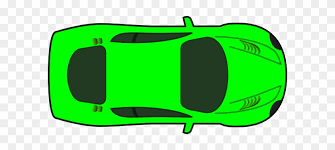
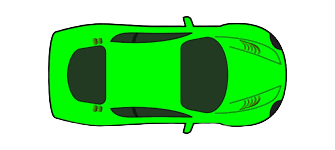
changed all images to images with no background. Removed background using adobe

diff --git a/script.js b/script.js
@@ -31,28 +31,28 @@ let cars = [
 
 // Add a birds array
 let birds = [
-    { x: 1, y: 3, counter: 0, img: '../images/bird1.jpg' },
-    { x: 4, y: 3, counter: 0, img: '../images/bird1.jpg' },
-    { x: 5, y: 3, counter: 0, img: '../images/bird2.jpg' },
-    { x: 8, y: 3, counter: 0, img: '../images/bird1.jpg' },
-    { x: 10, y: 3, counter: 0, img: '../images/bird1.jpg' },
-    { x: 12, y: 3, counter: 0, img: '../images/bird2.jpg' },
-    { x: 2, y: 2, counter: 0, img: '../images/bird1.jpg' },
-    { x: 3, y: 2, counter: 0, img: '../images/bird2.jpg' },
-    { x: 5, y: 2, counter: 0, img: '../images/bird2.jpg' },
-    { x: 6, y: 2, counter: 0, img: '../images/bird2.jpg' },
-    { x: 8, y: 2, counter: 0, img: '../images/bird1.jpg' },
-    { x: 9, y: 2, counter: 0, img: '../images/bird1.jpg' }
+    { x: 1, y: 3, counter: 0, img: '../images/bird1.png' },
+    { x: 4, y: 3, counter: 0, img: '../images/bird1.png' },
+    { x: 5, y: 3, counter: 0, img: '../images/bird2.png' },
+    { x: 8, y: 3, counter: 0, img: '../images/bird1.png' },
+    { x: 10, y: 3, counter: 0, img: '../images/bird1.png' },
+    { x: 12, y: 3, counter: 0, img: '../images/bird2.png' },
+    { x: 2, y: 2, counter: 0, img: '../images/bird1.png' },
+    { x: 3, y: 2, counter: 0, img: '../images/bird2.png' },
+    { x: 5, y: 2, counter: 0, img: '../images/bird2.png' },
+    { x: 6, y: 2, counter: 0, img: '../images/bird2.png' },
+    { x: 8, y: 2, counter: 0, img: '../images/bird1.png' },
+    { x: 9, y: 2, counter: 0, img: '../images/bird1.png' }
 ];
 
 // Add a logs array
 let logs = [
-    { x: 1, y: 6, img: '../images/log.jpg' },
-    { x: 2, y: 6, img: '../images/log.jpg' },
-    { x: 3, y: 6, img: '../images/log.jpg' },
-    { x: 7, y: 6, img: '../images/log.jpg' },
-    { x: 8, y: 6, img: '../images/log.jpg' },
-    { x: 9, y: 6, img: '../images/log.jpg' },
+    { x: 1, y: 6, img: '../images/log.png' },
+    { x: 2, y: 6, img: '../images/log.png' },
+    { x: 3, y: 6, img: '../images/log.png' },
+    { x: 7, y: 6, img: '../images/log.png' },
+    { x: 8, y: 6, img: '../images/log.png' },
+    { x: 9, y: 6, img: '../images/log.png' },
 
     { x: 2, y: 5, img: '../images/log1.png' },
     { x: 3, y: 5, img: '../images/log1.png' },
@@ -83,9 +83,9 @@ let water = [
 
 let frogs = [
     { id: 1, img: '../images/frog1.png' },
-    { id: 2, img: '../images/frog2.jpg' },
-    { id: 3, img: '../images/frog3.jpg' },
-    { id: 4, img: '../images/frog4.jpg' },
+    { id: 2, img: '../images/frog2.png' },
+    { id: 3, img: '../images/frog3.png' },
+    { id: 4, img: '../images/frog4.png' },
 ];
 
 let selectedFrogId = parseInt(prompt("Please select a frog (enter 1, 2, 3 or 4):"));
